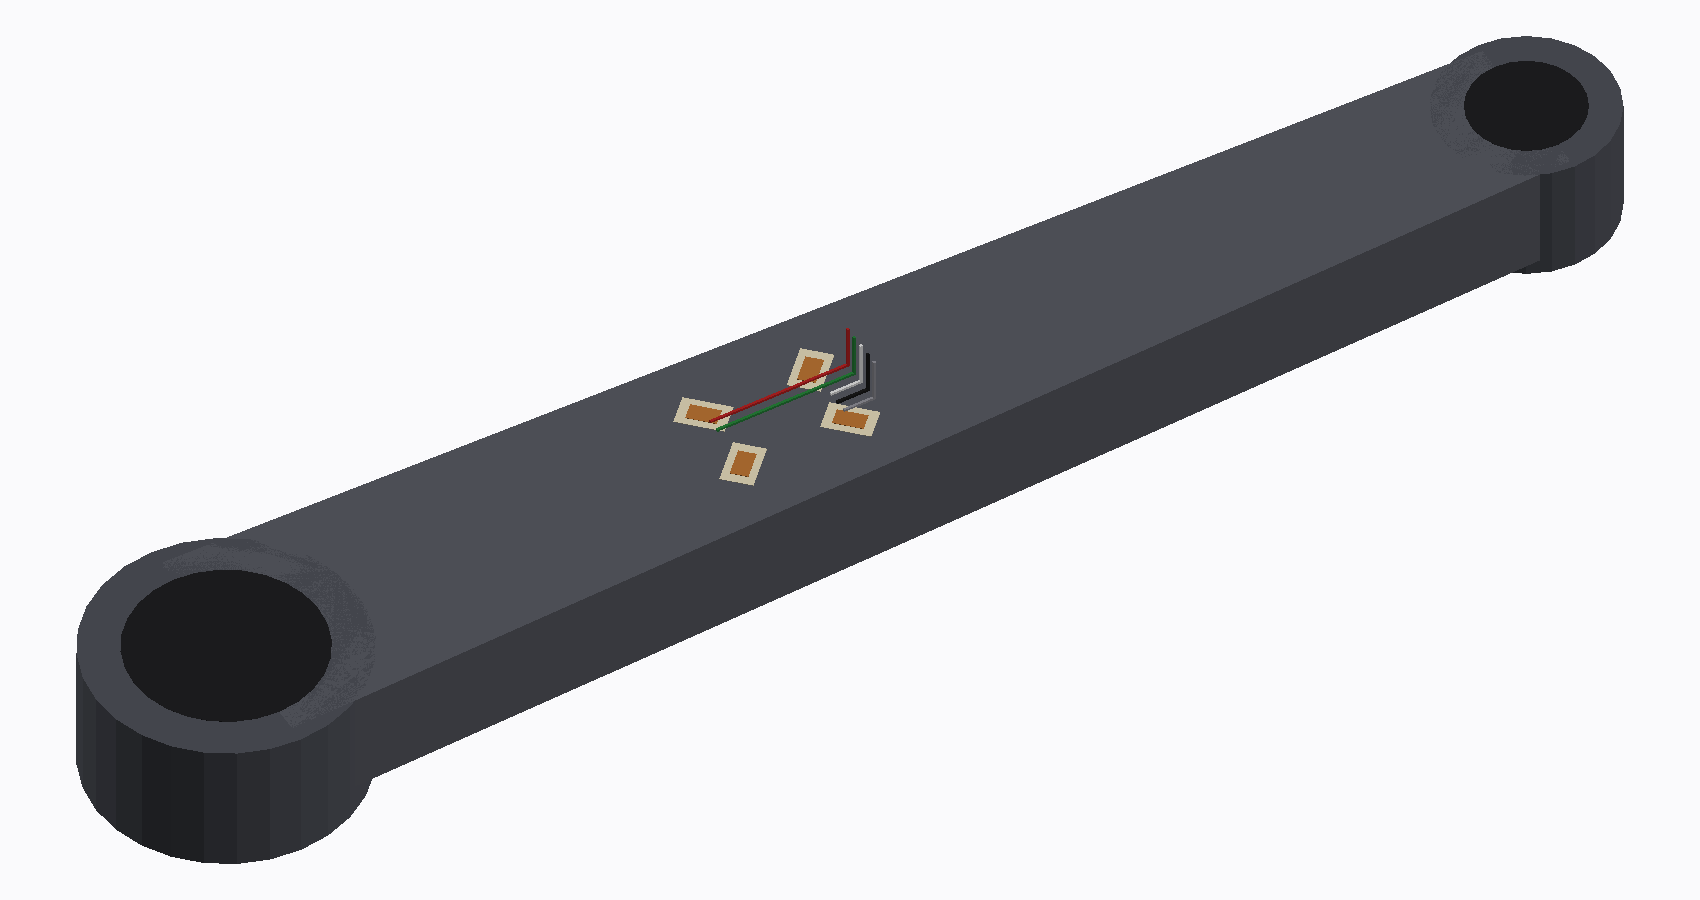
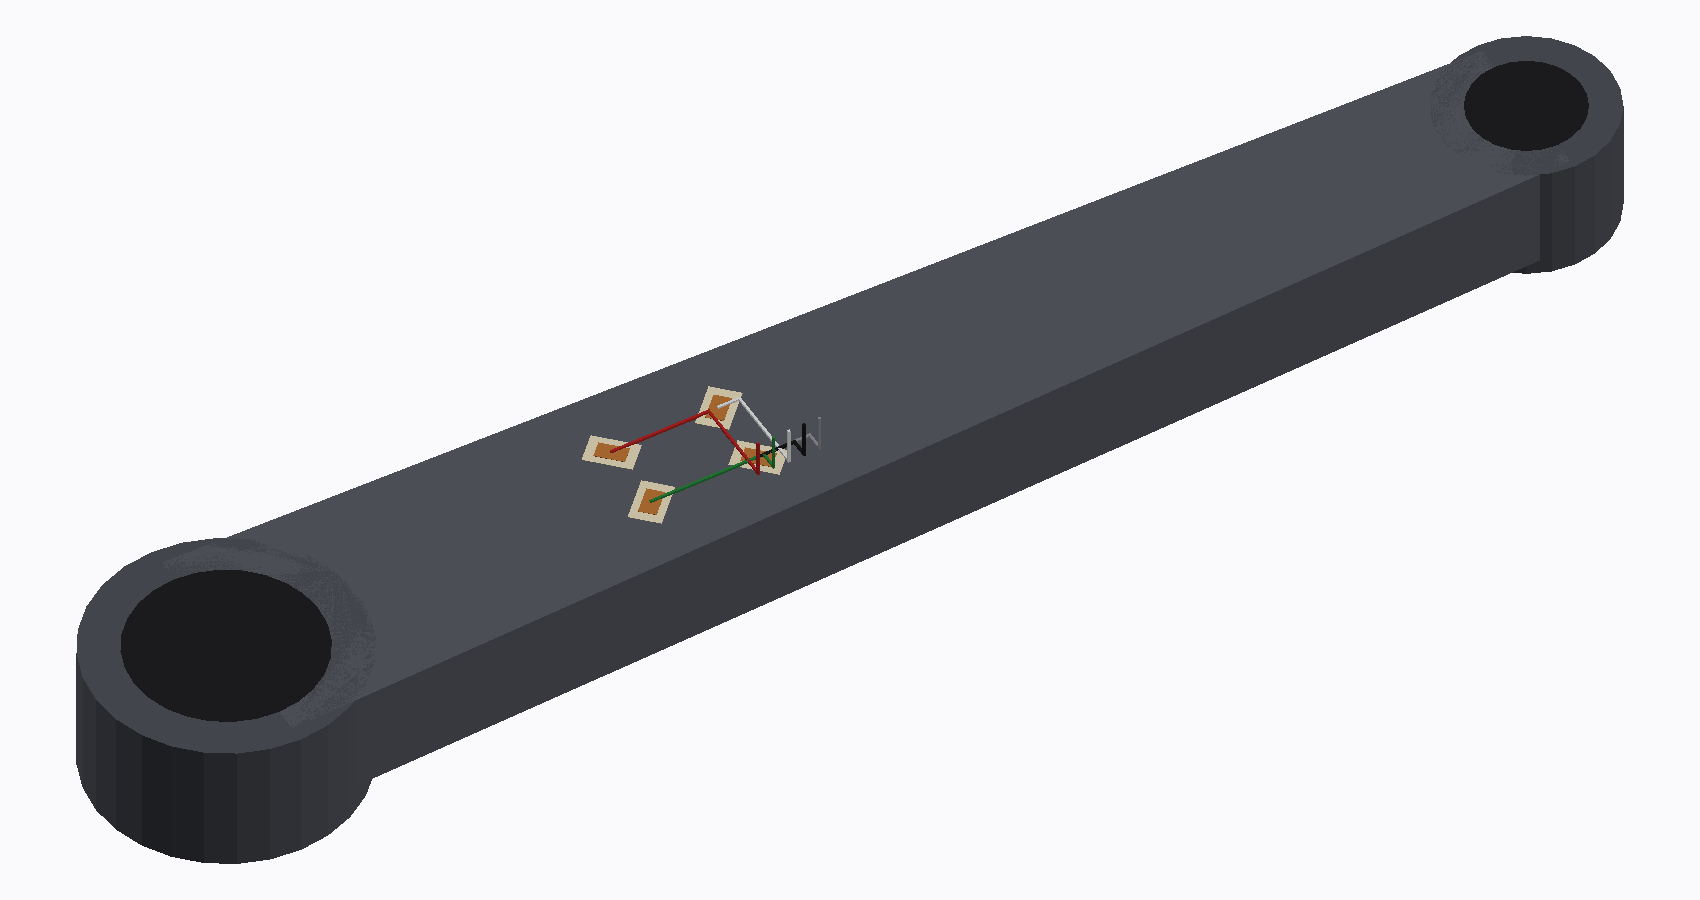
fix(docs): the specified gauge pattern is wrong for a crank arm
The component list asks for a 45 degree shear pattern, which is what a
shaft torque meter uses. A crank arm is not a shaft: it is a cantilever
loaded at its end by the pedal's tangential force, and on the flat inner
face the two quantities live in different places. Bending strain is
largest at the two edges and zero along the middle; shear strain is the
opposite, largest along the middle, which is the neutral axis.

Worked with representative numbers, aluminium, 20 x 14 mm section, 500 N
tangential, gauge 60 mm from the pedal: the 45 degree grid reads 52
microstrain and an axial grid at the edge reads 459, which is 8,9 times
more. And 459 is what produces the "1 to 3 mV" this same page already
claimed, so the document's own numbers always described bending while its
pattern said shear. Both cannot be right.

Shear is also the fragile one here, which is the opposite of the usual
argument for it: it peaks exactly on the neutral axis, and two
millimetres off brings in bending nine times larger. Shear beam load
cells work because the part is machined with a thin web; a crank arm has
no web.

Recommended instead: a full bending bridge, four axial grids, two by each
edge, in opposite arms. In-plane bending adds while lateral bending,
axial force and temperature cancel. The decision drags the resistance
with it and that is written down too: single-film full bridge patterns
exist mostly at 350 and 1000 ohms, and 1000 takes the bridge back to
[…]

Changed region(s): [[0.3429, 0.3733, 0.53, 0.5911]]

diff --git a/hardware_powermeter/pod/make_conjunto.py b/hardware_powermeter/pod/make_conjunto.py
@@ -22,10 +22,14 @@ What is real and what is a placeholder, because the difference matters:
     between the two axes, a body that tapers from 30 to 20 mm of width and
     is 14 mm thick, a spindle boss of 34 mm and a pedal boss of 22. It is
     there to show WHERE things sit, not to be fabricated from;
-  - the gauges are drawn at the size of a transducer-class shear pattern
-    (about 6 x 4 mm of carrier), in the 45 degree pair that reads torque
-    (01-lista-de-componentes.md, Extensometros). Where exactly along the
-    arm they are bonded is still open, and it is what sets the slope.
+  - the gauges are drawn at the size of a transducer-class pattern, about
+    6 x 4 mm of carrier, four of them. They are drawn at 45 degrees because
+    that is what 01-lista-de-componentes.md still specifies, and docs/06
+    now says that specification is wrong for a crank arm: bending gives
+    8,9 times more signal than shear here and is far less sensitive to a
+    misplaced bond. When the pattern is settled, the angle in this drawing
+    settles with it. Where along the arm they are bonded is also still
+    open, and it is what sets the slope.
 """
 from __future__ import annotations
 
@@ -93,7 +97,7 @@ def braco(m: PD.Malha) -> None:
 # ---------------------------------------------------------------- gauges
 GRADE_W, GRADE_H = 6.0, 4.0     # carrier of a transducer-class shear pattern
 GRADE_ESP = 0.05                # foil plus carrier: five hundredths of a mm
-CENTRO_X = 26.0                 # under the pod, where the bridge's wires land
+CENTRO_X = 14.0                 # toward the spindle, just before the bridge's pads
 
 
 def _retangulo_girado(cx, cy, w, h, ang):
@@ -125,24 +129,39 @@ def extensometros(m: PD.Malha) -> list:
     return centros
 
 
-def fios(m: PD.Malha, centros: list, z_topo: float) -> None:
-    """Five wires from the gauges to the slot in the pod's floor.
+def ilhas_da_ponte(pecas) -> list:
+    """The five bridge pads, where they really are, not where they look nice.
 
-    They lie on the arm, gather under the pod and rise through the slot into
-    the five plated holes on the board's edge (06-conectores, J301). Drawn as
-    thin square wires so the picture reads; a real one is round, 30 AWG.
+    J301 is read from the placed board and its box turned into five centres
+    at the footprint's 2,0 mm pitch, so the wires in the picture land on the
+    pads the board actually has (06-conectores-e-pontos-de-teste.md, J301).
     """
-    cy = PD.H_P / 2.0
+    x0, y0, x1, y1 = PD.no_pod(pecas["J301"]["caixa"])
+    cy = (y0 + y1) / 2.0
+    meia = (x1 - x0) / 2.0 - 1.25            # half a pad in from each end
+    cx = (x0 + x1) / 2.0
+    return [(cx - meia + 2.0 * k * meia / 4.0, cy) for k in range(5)]
+
+
+def fios(m: PD.Malha, centros: list, ilhas: list, z_topo: float) -> None:
+    """Five wires from the gauges to the five plated holes of the board.
+
+    Each one runs on the arm from its gauge to the point under its own pad,
+    then rises through the slot in the pod's floor and into the hole, where
+    the solder is the strain relief. Drawn square so the picture reads; the
+    real one is round, about 30 AWG, in the load-cell colours.
+    """
     d = 0.32
-    alvo_x = CENTRO_X + 11.0
     for k, (nome, cor) in enumerate(FIOS):
-        y = cy - 3.0 + k * 1.5
-        x0 = centros[min(k, len(centros) - 1)][0]
-        # along the arm to the gathering point
-        m.caixa(min(x0, alvo_x), y - d / 2, FACE_Z, max(x0, alvo_x), y + d / 2,
-                FACE_Z + d, cor)
-        # then up into the pod
-        m.caixa(alvo_x - d / 2, y - d / 2, FACE_Z, alvo_x + d / 2, y + d / 2,
+        ax, ay = centros[min(k, len(centros) - 1)]
+        px, py = ilhas[k]
+        # along the arm, in two straight runs: across, then along
+        m.caixa(min(ax, px) - d / 2, ay - d / 2, FACE_Z,
+                max(ax, px) + d / 2, ay + d / 2, FACE_Z + d, cor)
+        m.caixa(px - d / 2, min(ay, py) - d / 2, FACE_Z,
+                px + d / 2, max(ay, py) + d / 2, FACE_Z + d, cor)
+        # then straight up through the slot into the hole
+        m.caixa(px - d / 2, py - d / 2, FACE_Z, px + d / 2, py + d / 2,
                 z_topo, cor)
 
 
@@ -155,6 +174,7 @@ def main() -> int:
     pecas = PD.ler_placa()
     pod = PD.Pod(pecas)
 
+    ilhas = ilhas_da_ponte(pecas)
     base = PD.Malha()
     braco(base)
     centros = extensometros(base)
@@ -162,26 +182,31 @@ def main() -> int:
     concha, tampa = pod.concha(), pod.tampa()
     placa, celula = PD.placa_3d(), pod.celula_3d()
 
-    # assembled: the pod closed on the arm, the way it is ridden
+    # assembled: the pod closed on the arm, the way it is ridden. The wires
+    # end at the board's underside, which is where the holes are.
     m_cola = PD.Malha()
     cola(m_cola)
     m_fios = PD.Malha()
-    fios(m_fios, centros, PD.PLACA_Z0)
+    fios(m_fios, centros, ilhas, PD.PLACA_Z0)
     t, c = PD.juntar(base, m_cola, m_fios, concha, celula, placa, tampa,
                      pod.junta_3d())
     PD.renderizar(t, c, "conjunto-3d-montado.png", 1900, 1000, 205.0, 34.0)
 
-    # opened: the pod lifted, so the gauges and the wires are visible
+    # opened: the pod lifted, the wires stretched to the board they solder
+    # into, so the path gauge -> slot -> hole is one continuous thing
     dz = 26.0
     m_fios2 = PD.Malha()
-    fios(m_fios2, centros, FACE_Z + 6.0)
+    fios(m_fios2, centros, ilhas, PD.PLACA_Z0 + dz)
     t, c = PD.juntar(base, m_fios2,
                      PD.deslocar(PD.juntar(concha, celula, placa), dz),
                      PD.deslocar(PD.juntar(tampa, pod.junta_3d()), dz + 16.0))
     PD.renderizar(t, c, "conjunto-3d-aberto.png", 1900, 1200, 205.0, 26.0)
 
-    # close up on the gauges alone, which is the part nobody has seen
-    t, c = PD.juntar(base, m_fios2)
+    # close up on the arm alone: the four gauges and the five wires standing
+    # where they enter the pod, which is the part nobody had seen
+    m_fios3 = PD.Malha()
+    fios(m_fios3, centros, ilhas, FACE_Z + 5.0)
+    t, c = PD.juntar(base, m_fios3)
     PD.renderizar(t, c, "conjunto-3d-extensometros.png", 1700, 900, 210.0, 46.0)
     return 0
 

diff --git a/docs/06-medicao-e-calibracao.md b/docs/06-medicao-e-calibracao.md
@@ -22,6 +22,28 @@ Com `Vref = Vexc`, o código não depende de `Vexc`, e o firmware trabalha com u
 
 onde `c` é o código do ADS1220 (24 bits, complemento de dois, PGA 128), `c0` o zero e `s` a inclinação, os dois corrigidos pela temperatura `T` da ponte ([Temperatura](#temperatura)).
 
+### Cisalhamento ou flexão: o padrão especificado está errado
+
+A lista de componentes especifica **padrão de cisalhamento a 45°**, que é o padrão de torquímetro de eixo. O braço do pedivela não é um eixo: é uma viga em balanço carregada na ponta pela força tangencial do pedal. Numa seção a `d` do pedal existem duas coisas, e elas moram em lugares diferentes da mesma face:
+
+- a **flexão**, no plano de rotação, cuja deformação é máxima junto das duas **bordas** da face e **zero no meio**;
+- o **cisalhamento**, cuja deformação é máxima **no meio** da face, que é a linha neutra da flexão, e zero nas bordas.
+
+Com números representativos, braço de alumínio, seção de 20 × 14 mm, 500 N de força tangencial e a grade a 60 mm do pedal:
+
+| Onde | Deformação | Saída da ponte cheia a 3 V |
+|---|---|---|
+| Grade a 45° no meio da face (cisalhamento) | 52 µε | 0,31 mV |
+| Grade axial junto da borda (flexão) | 459 µε | 2,76 mV |
+
+**A flexão dá 8,9 vezes mais sinal**, e é ela que corresponde aos "1 a 3 mV" e às "algumas centenas de µε" que esta própria página já dizia: os números do documento descrevem flexão, e o padrão especificado é de cisalhamento. Os dois não podem estar certos ao mesmo tempo.
+
+Pior que o sinal menor é a fragilidade: o cisalhamento só é máximo **exatamente** na linha neutra, e a poucos milímetros dela entra flexão, que é nove vezes maior. Uma colagem 2 mm fora do lugar contamina a leitura com o sinal que se queria evitar. Célula de carga de cisalhamento funciona porque a peça é usinada com alma fina, onde o cisalhamento domina; um braço de pedivela não tem alma.
+
+**Recomendação: ponte cheia de flexão**, quatro grades alinhadas com o eixo do braço, duas junto de cada borda da face interna, em braços opostos da ponte. Assim a flexão no plano de rotação soma, e a flexão lateral (a força do ciclista para dentro), a força axial e a temperatura cancelam, porque afetam as quatro grades com o mesmo sinal. O argumento clássico contra a flexão, que a saída depende de onde a carga é aplicada, não vale aqui: a carga está sempre no eixo do pedal, e a distância só entra na inclinação, que a calibração de cada unidade absorve.
+
+**O que isso puxa junto, e é decisão de compra:** a resistência. Padrões de ponte cheia de flexão num único filme, que é o que elimina o erro de alinhamento entre quatro colagens separadas, existem principalmente em 350 Ω e 1000 Ω. Em 1000 Ω a ponte volta a drenar 3 mA e as 50 h não fecham sem o modo duty-cycle do conversor ([02](02-hardware.md#orçamento-de-consumo)). Escolher o padrão e escolher a resistência é a mesma decisão, e ela ainda não foi tomada.
+
 **Escala.** A 200 W e 90 rpm o torque médio é 21 N·m; o pico numa pedalada forte passa de 100 N·m. Com extensômetros de fator 2 num braço de alumínio, a deformação de trabalho fica na casa de algumas centenas de µε, ou seja, 1 a 3 mV de saída da ponte a 3,0 V. Com ganho 128 o fundo de escala do conversor é ±23 mV, então sobra margem para o pico e para o zero deslocado pela colagem. A resolução sem ruído do sistema se calcula como em [1, 5.2.2]: com 2 mV de faixa útil e 1,6 µV pico a pico de ruído a 175 SPS (SBAS501D), são 2 mV / 1,6 µV ≈ 1250 contagens sem ruído por amostra, 0,08 % do fundo de escala, antes da média da volta, que divide isso por mais de dez.
 
 ## Amostragem

diff --git a/CHANGELOG.md b/CHANGELOG.md
@@ -6,6 +6,9 @@ Formato do [Keep a Changelog](https://keepachangelog.com/pt-BR/1.1.0/); versões
 
 ### Medido
 
+- **O padrão de extensômetro especificado está errado para um braço de pedivela** (2026-09-28). A lista pede padrão de cisalhamento a 45°, que é padrão de torquímetro de eixo; o braço é viga em balanço. Numa seção de 20 × 14 mm de alumínio, com 500 N tangenciais e a grade a 60 mm do pedal, a grade a 45° no meio da face lê 52 µε e a grade axial junto da borda lê 459 µε: **8,9 vezes mais**. E são os 459 µε que correspondem aos "1 a 3 mV" que `docs/06` já declarava, ou seja, os números do documento sempre descreveram flexão. O cisalhamento ainda é frágil: só é máximo na linha neutra, e a 2 mm dela entra a flexão, nove vezes maior. Recomendação registrada em `docs/06`: ponte cheia de flexão, quatro grades axiais, duas por borda, que também cancela flexão lateral, força axial e temperatura. A escolha puxa a resistência junto, porque padrão de ponte cheia num filme só existe sobretudo em 350 e 1000 Ω, e 1000 Ω traz o consumo de volta a 3 mA.
+
+
 - **O envelope da classe, por fotogrametria, porque ninguém o publica** (2026-09-27). A foto de imprensa do fabricante traz o módulo colado num braço Shimano FC-M8100 marcado 170, e o centro do furo do eixo ao centro do furo do pedal são exatamente 170 mm: 0,1319 mm por pixel. A escala foi conferida por um segundo caminho, os dois contatos de carga do módulo, que dão 2,6 mm entre centros, o passo padrão de 2,5 mm de pino pogo, com cabeças de 1,3 a 1,6 mm. Resultado: **37 a 39 mm de comprimento**, 18 a 22 de largura e 9 a 13 de altura, esta última fraca porque nenhuma foto tem perfil. O alvo do projeto passa de 60 para **38 mm de comprimento**: o que se perseguia já era quase o dobro do que a classe faz.
 
 ### Decidido
